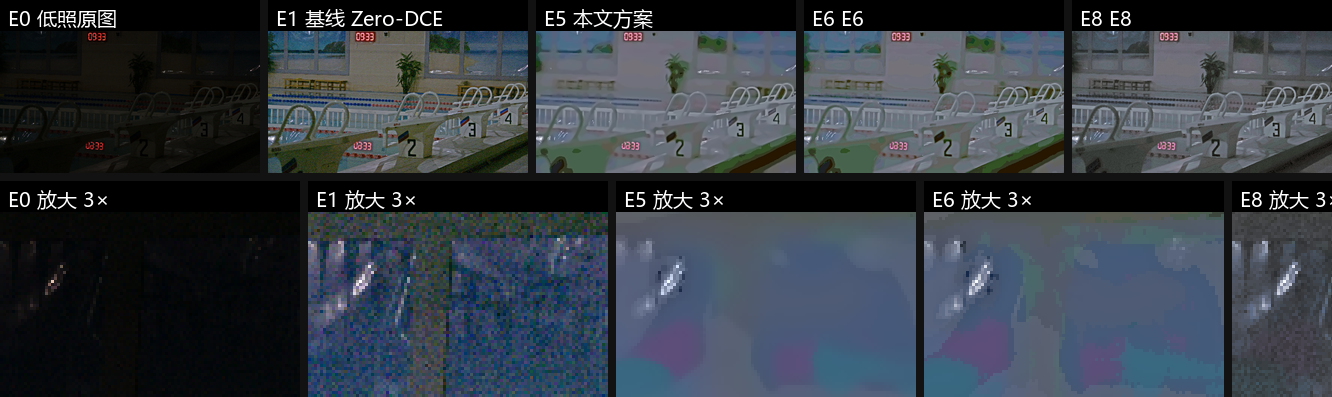
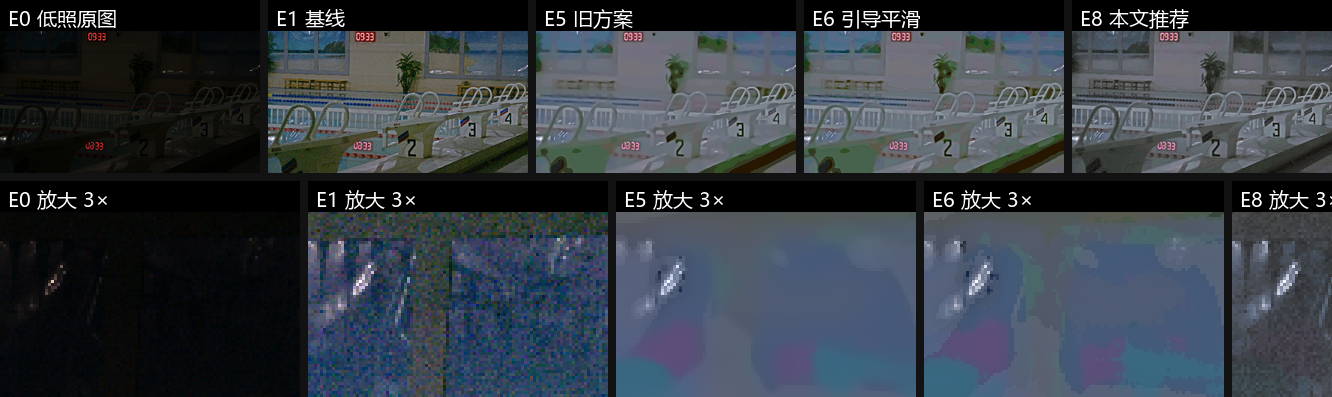
修正图表短标签与 README 中彩色斑块指标口径说明（改用专项诊断数字）

diff --git a/scripts/make_mosaic_figs.py b/scripts/make_mosaic_figs.py
@@ -151,8 +151,8 @@ def fig_strips(cases):
         cw, ch = box[2] - box[0], box[3] - box[1]
         scale = max(2, int(360 / max(cw, ch)))
         top, bottom = [], []
-        short = {"E0": "低照原图", "E1": "基线 Zero-DCE", "E2": "先降噪→增强",
-                 "E3": "增强→后降噪", "E4": "弱降噪+平滑", "E5": "本文方案"}
+        short = {"E0": "低照原图", "E1": "基线", "E2": "先降噪", "E3": "后降噪",
+                 "E4": "弱降噪+平滑", "E5": "旧方案", "E6": "引导平滑", "E7": "抑制无信号区", "E8": "本文推荐"}
         for p in ["E0", "E1", "E5", "E6", "E8"]:
             t = Image.fromarray(outs[p]).resize((260, int(260 * h / w)), Image.LANCZOS)
             top.append(_label(np.asarray(t), f"{p} {short.get(p, p)}"))

diff --git a/README.md b/README.md
@@ -288,7 +288,7 @@ python enhance.py "D:\照片\夜景.jpg" --preprocess mosaic -c --bit16
 | eval15/748 | 0.02% | 2.37% | 2.51% | **0.58%** |
 | LIME/1 | 3.74% | 5.63% | 5.97% | **1.72%** |
 
-- 相对基线（E8）：色噪 −83.5%、彩色大斑块基本消失、亮度细节保留 75%（8.91/11.91）；SSIM 0.6835 > 基线 0.5584。
+- 相对基线（E8）：色噪 −83.5%、亮度细节保留 75%（8.91/11.91）、SSIM 0.6835 > 基线 0.5584；按"最大彩色斑块"专项诊断，极端暗图 **14.03%（E5）→ 0.21%（E8）**、eval15/748 **2.37%→0.58%**。\n  > 注意：上表"彩色块占比"是暗区口径，对 E8 会偏高（它把近黑区抹成中性灰，色度幅度低但面积大），**判断彩色伪影要看专项诊断表**与色度通道图。
 - 结论：①"先降噪再增强"有效 ②只做后置降噪不够 ③**无差别重度平滑会抹出更大的色块（E5 反例，可作为论文里的负面消融）** ④E8 在"去噪 vs 保细节"之间取得平衡，近黑区承认物理边界、只做中性抬亮。
 
 **产物：** `scripts/preprocess.py`（算子）、`scripts/mosaic_ablation.py`（E0~E8 实验）、`scripts/make_mosaic_figs.py`（画图）、
